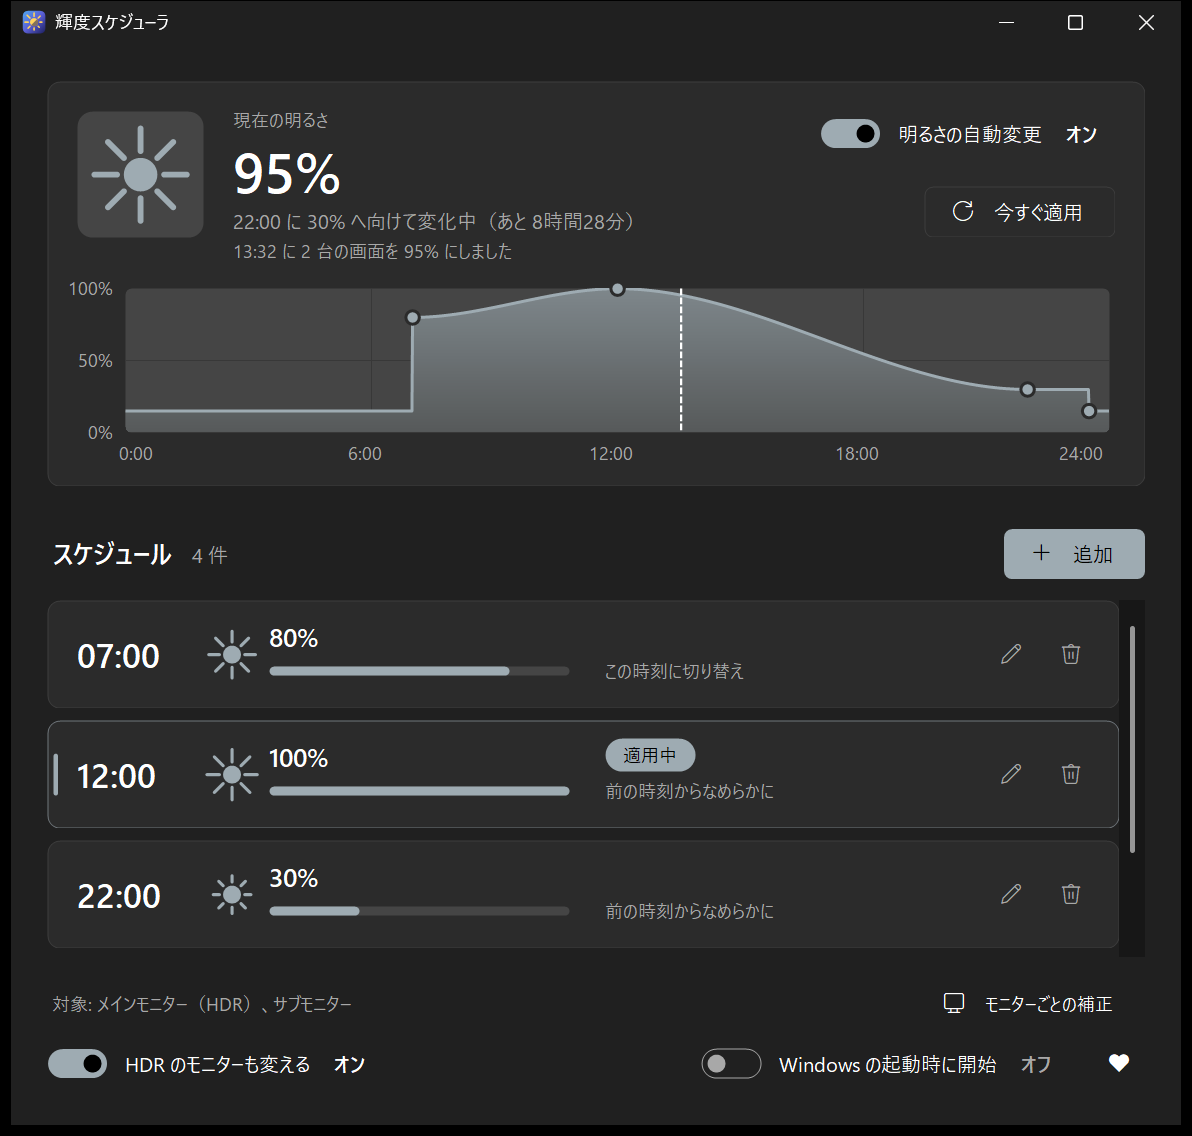
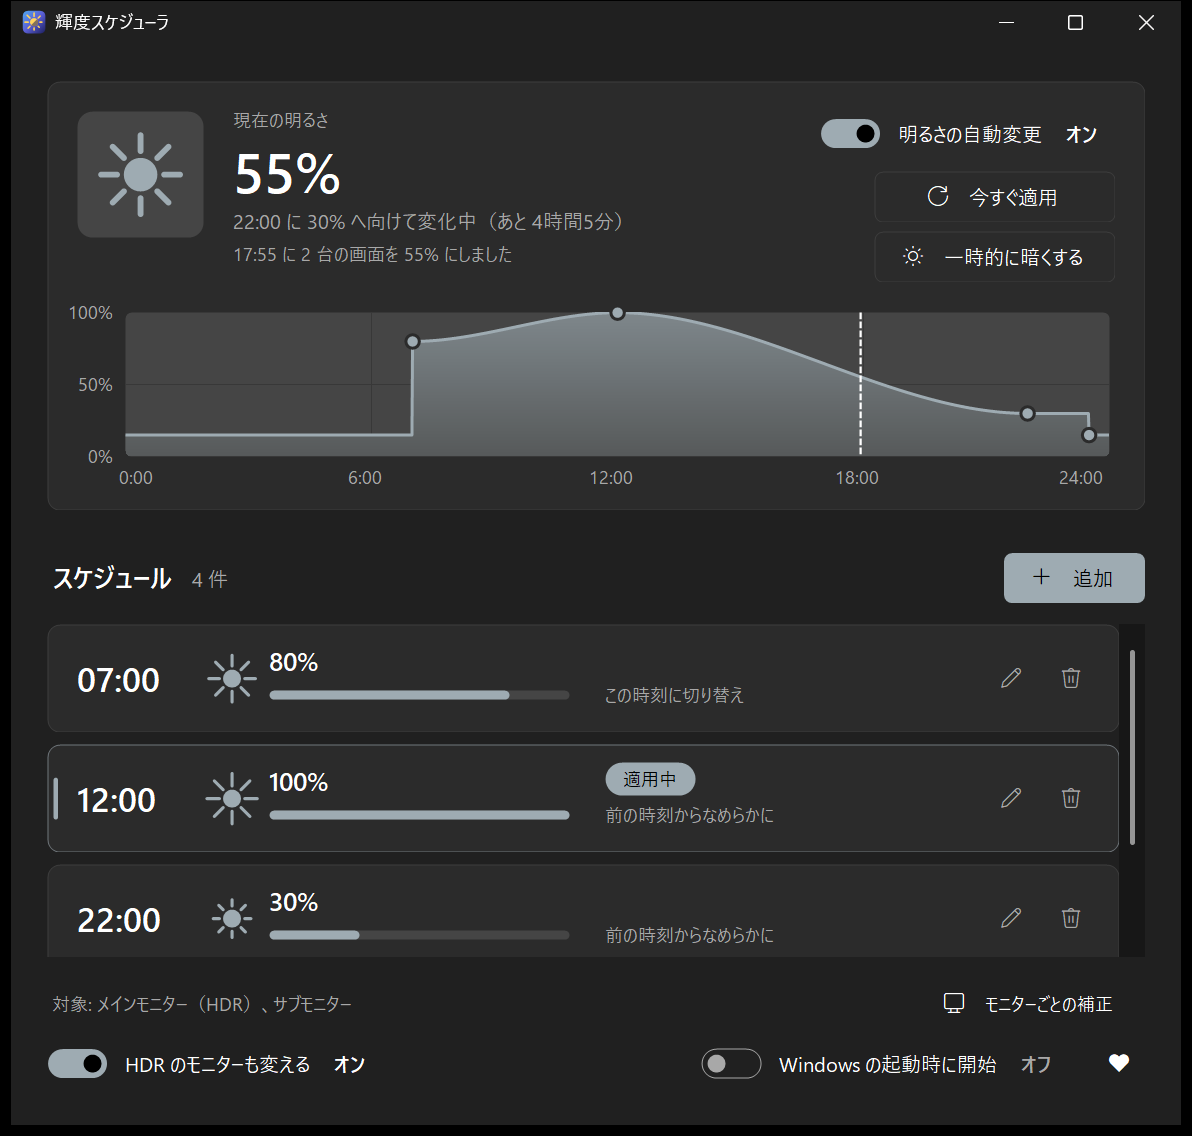
紹介ページに「一時的に暗くする」の説明を追加
- 特長の「24 時間のグラフ」の枠を「目が疲れたら、一時的に暗く」に入れ替え
  （グラフのことは「なめらかに変化」の説明にまとめた。特長は 3 列 × 2 段のまま）
- よくある質問に「目が疲れたとき、すぐに画面を暗くできますか？」を追加
- メイン画面のスクリーンショットを、「一時的に暗くする」ボタンのある画面に撮り直し
- sitemap の更新日を更新

diff --git a/site/index.html b/site/index.html
@@ -277,12 +277,12 @@
         <div class="feature">
           <div class="icon" aria-hidden="true">🌗</div>
           <h3>なめらかに変化</h3>
-          <p>時刻にパッと切り替えるほか、前の時刻からゆっくり変えていくこともできます。</p>
+          <p>時刻にパッと切り替えるほか、前の時刻からゆっくり変えていくこともできます。一日の変化はグラフでひと目で確認できます。</p>
         </div>
         <div class="feature">
-          <div class="icon" aria-hidden="true">📈</div>
-          <h3>24 時間のグラフ</h3>
-          <p>一日の明るさの変化を、グラフでひと目で確認できます。</p>
+          <div class="icon" aria-hidden="true">😌</div>
+          <h3>目が疲れたら、一時的に暗く</h3>
+          <p>スケジュールに関係なく、30 分・1 時間・2 時間だけ画面を暗くできます。時間が来たら自動で元の明るさに。</p>
         </div>
         <div class="feature">
           <div class="icon" aria-hidden="true">🖥</div>
@@ -368,6 +368,10 @@
         <details>
           <summary>ディスプレイの輝度を、時間指定で自動で変えられますか？</summary>
           <p>はい、それがこのアプリの役目です。「7:00 に 80%」「22:00 に 30%」のように、時刻と輝度（0〜100%）を登録しておくと、毎日その時間に自動で切り替わります。「なめらかに変化」を選べば、前の時刻からゆっくり輝度を変えていくこともできます。Windows 標準の設定には、外付けモニターの輝度を時間指定で変える機能がないため、その代わりになります。</p>
+        </details>
+        <details>
+          <summary>目が疲れたとき、すぐに画面を暗くできますか？</summary>
+          <p>はい。設定画面の上部の「一時的に暗くする」、またはタスクトレイのアイコンを右クリック →「一時的に暗くする」から、30 分・1 時間・2 時間・元に戻すまで、を選ぶと、スケジュールに関係なく今の明るさを暗くできます。暗さは 3/4・半分・1/4 から選べ、時間が来たら自動でスケジュールの明るさに戻ります。途中で戻すときは「元の明るさに戻す」を押してください。</p>
         </details>
         <details>
           <summary>モニターの明るさが変わりません</summary>
